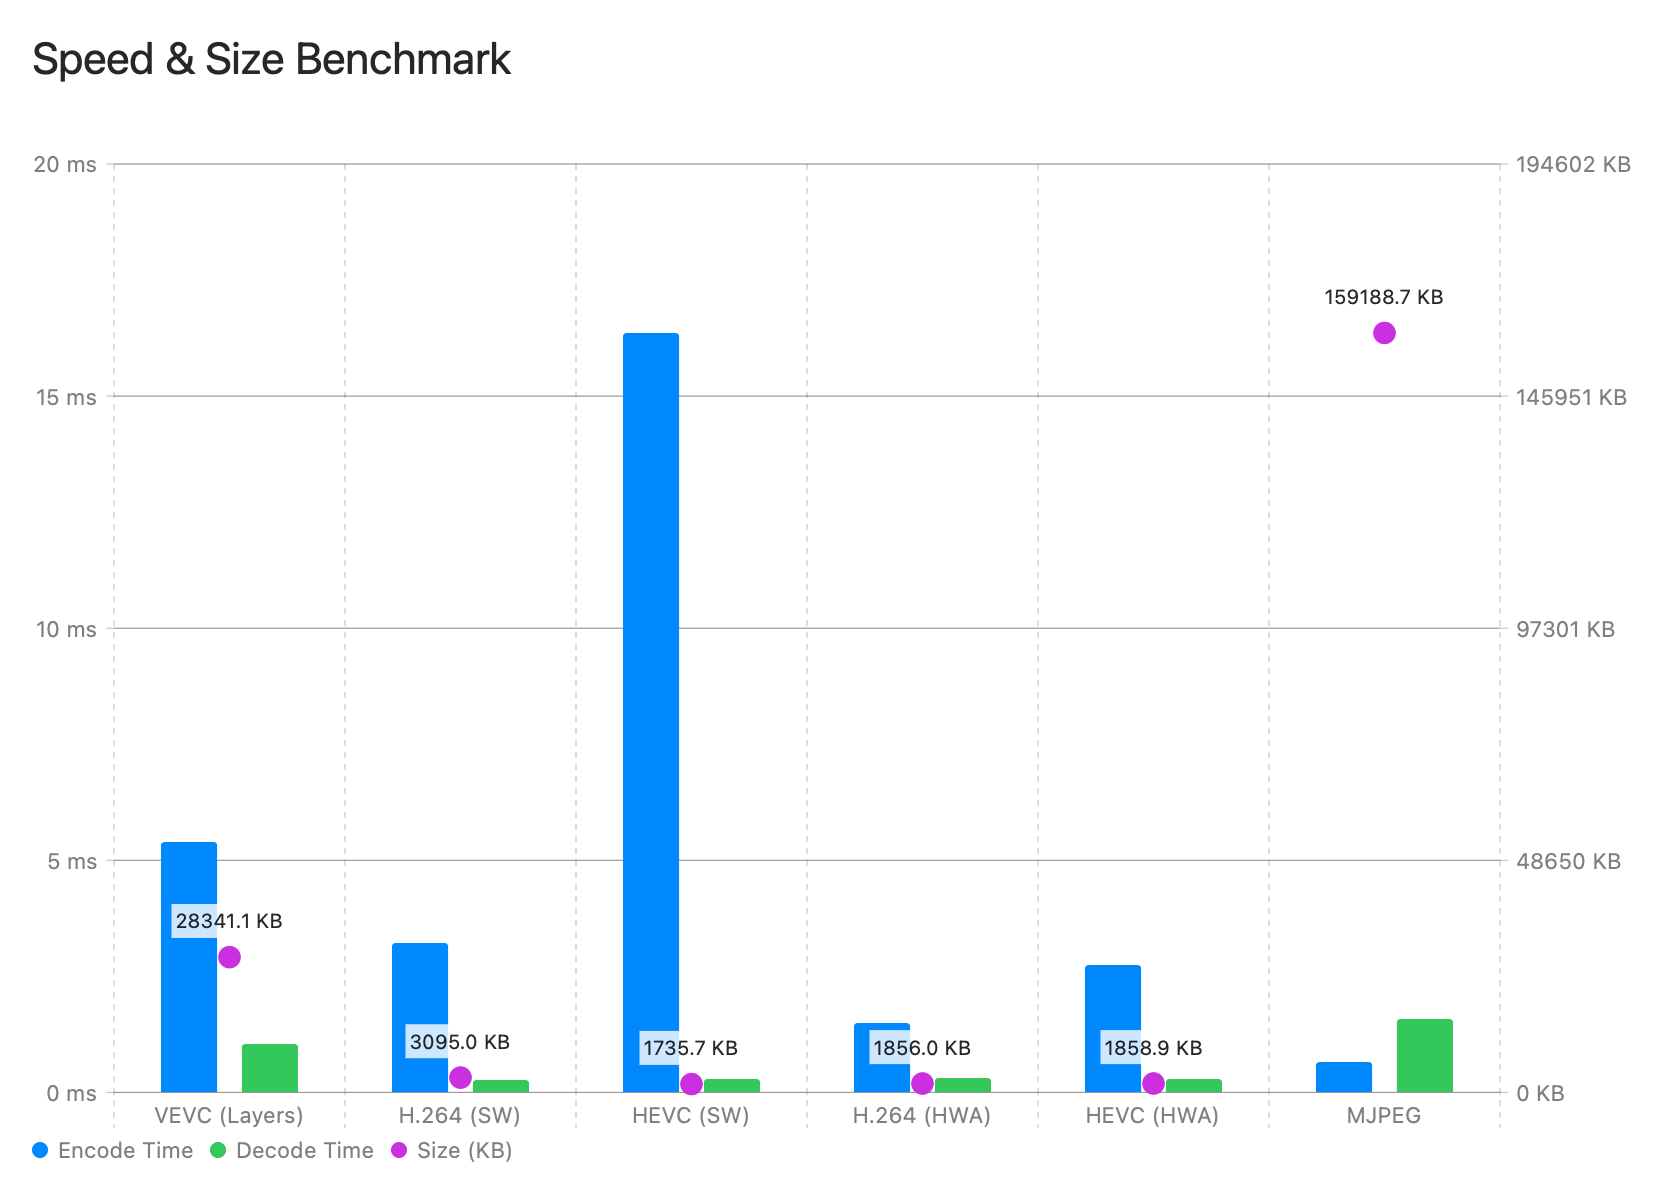
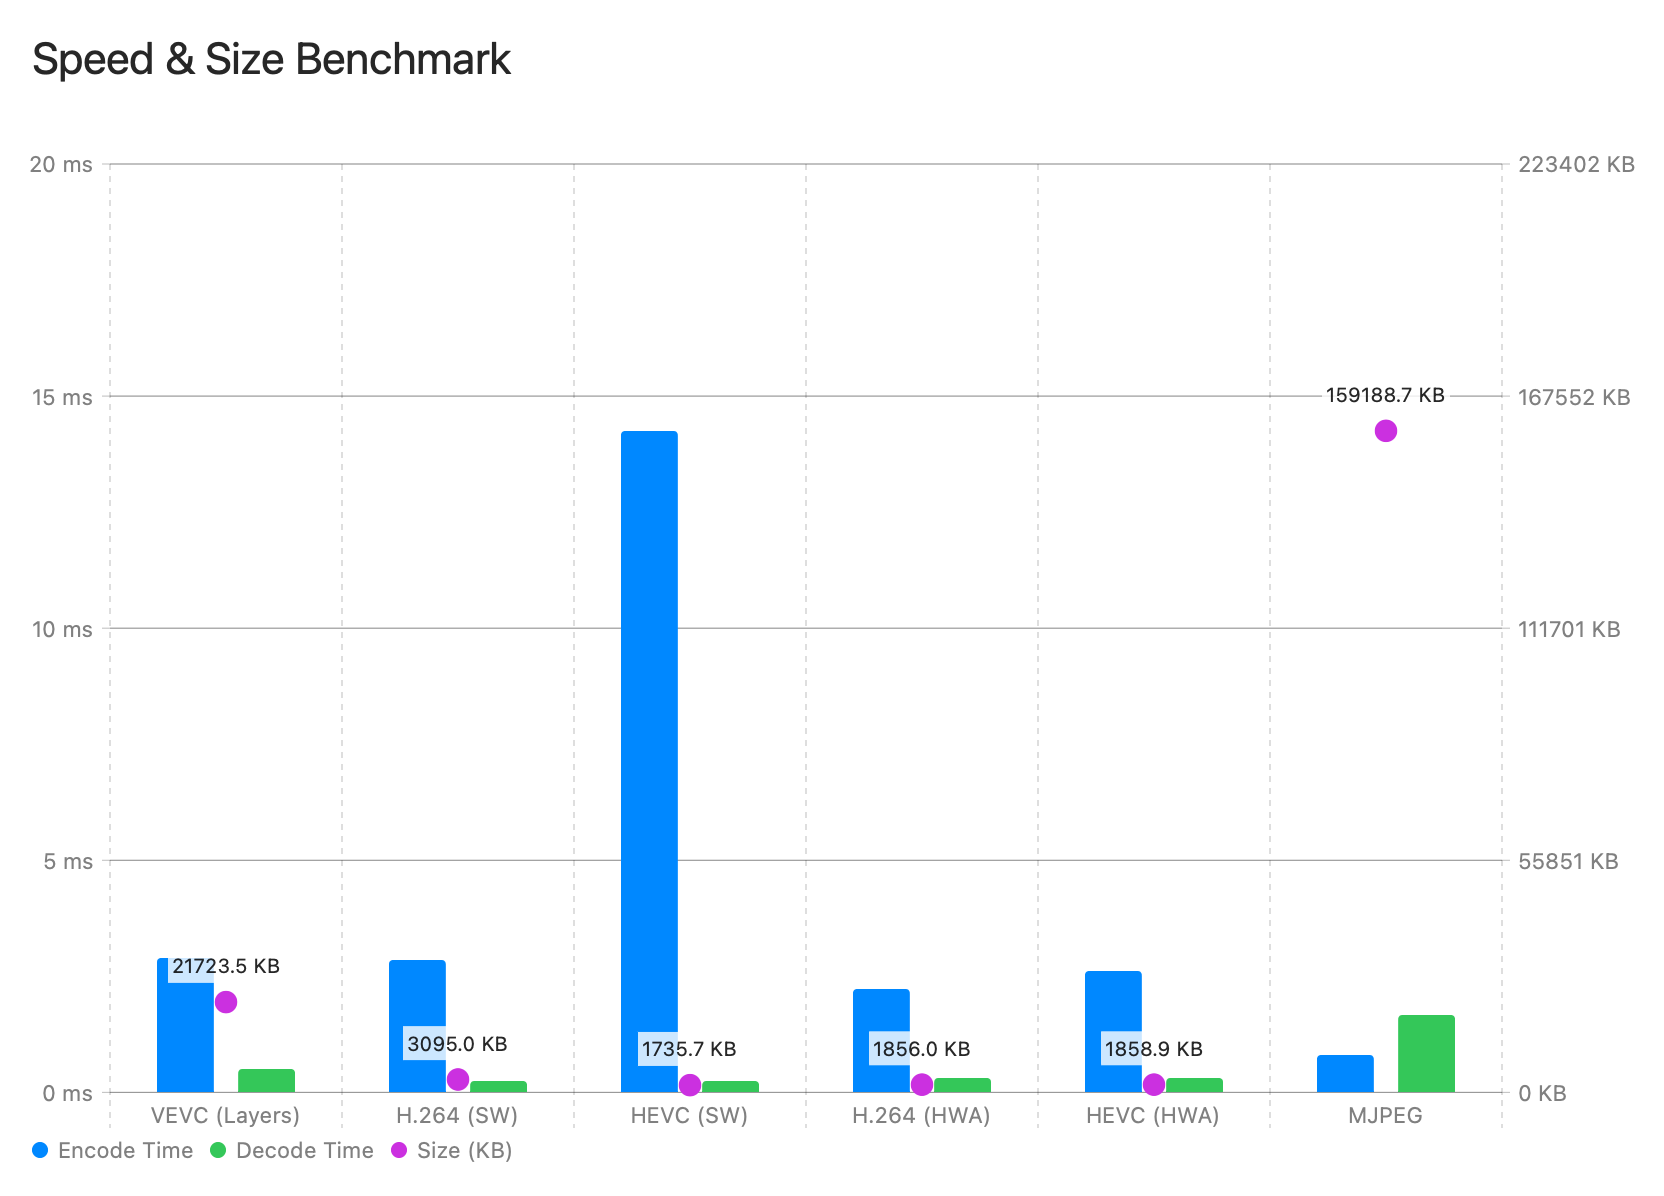
copy frame

diff --git a/Tests/vevcTests/CopyFrameTests.swift b/Tests/vevcTests/CopyFrameTests.swift
@@ -1,0 +1,149 @@
+import Testing
+@testable import vevc
+
+// MARK: - Copy Frame Tests
+//
+// Intent: When consecutive frames are identical (SAD=0), the encoder should
+// emit a "copy frame" signal (FrameLen=0) instead of encoding the full frame.
+// This saves significant data for videos with duplicate frames, such as
+// 24fps content upconverted to 60fps where ~60% of frames are duplicates.
+//
+// Design:
+// - Encoder: Compare current frame pixels to previous frame. If identical, write FrameLen=0.
+// - Decoder: When FrameLen=0, reuse the previous decoded frame (previous PlaneData420).
+// - Bitstream: FrameLen=0 is a valid, unambiguous signal since real encoded frames always have data.
+
+struct CopyFrameTests {
+
+    // MARK: - Helpers
+
+    /// Create a simple solid-color YCbCrImage for testing
+    private func makeSolidImage(width: Int, height: Int, y: UInt8, cb: UInt8, cr: UInt8) -> YCbCrImage {
+        var img = YCbCrImage(width: width, height: height)
+        for i in 0..<img.yPlane.count { img.yPlane[i] = y }
+        for i in 0..<img.cbPlane.count { img.cbPlane[i] = cb }
+        for i in 0..<img.crPlane.count { img.crPlane[i] = cr }
+        return img
+    }
+
+    // MARK: - Test: Identical frames produce smaller output than unique frames
+
+    /// Intent: Encoding N identical frames should produce significantly smaller data
+    /// than encoding N unique frames, because duplicate frames are encoded as copy
+    /// signals (FrameLen=0 = 4 bytes per duplicate).
+    @Test func identicalFramesProduceSmallerOutput() async throws {
+        let width = 64
+        let height = 64
+
+        // Scenario 1: 5 identical frames
+        let img = makeSolidImage(width: width, height: height, y: 128, cb: 128, cr: 128)
+        let identicalImages = [img, img, img, img, img]
+
+        let identicalBytes = try await vevc.encode(
+            images: identicalImages,
+            maxbitrate: 5_000_000,
+            framerate: 60,
+            zeroThreshold: 0,
+            keyint: 60,
+            sceneChangeThreshold: 32
+        )
+        let identicalSize = identicalBytes.count
+
+        // Scenario 2: 5 different frames
+        let img1 = makeSolidImage(width: width, height: height, y: 100, cb: 128, cr: 128)
+        let img2 = makeSolidImage(width: width, height: height, y: 120, cb: 128, cr: 128)
+        let img3 = makeSolidImage(width: width, height: height, y: 140, cb: 128, cr: 128)
+        let img4 = makeSolidImage(width: width, height: height, y: 160, cb: 128, cr: 128)
+        let img5 = makeSolidImage(width: width, height: height, y: 180, cb: 128, cr: 128)
+        let differentImages = [img1, img2, img3, img4, img5]
+
+        let differentBytes = try await vevc.encode(
+            images: differentImages,
+            maxbitrate: 5_000_000,
+            framerate: 60,
+            zeroThreshold: 0,
+            keyint: 60,
+            sceneChangeThreshold: 32
+        )
+        let differentSize = differentBytes.count
+
+        print("  Identical 5 frames: \(identicalSize) bytes")
+        print("  Different 5 frames: \(differentSize) bytes")
+        print("  Ratio: \(String(format: "%.1f", Double(identicalSize) / Double(differentSize) * 100))%")
+
+        // Identical frames should be at least 50% smaller
+        // (1 I-frame + 4 copy frames vs 1 I-frame + 4 P-frames)
+        #expect(identicalSize < differentSize, "Identical frames should produce less data")
+        #expect(Double(identicalSize) < Double(differentSize) * 0.5,
+               "Identical frames should be at least 50% smaller")
+    }
+
+    // MARK: - Test: Roundtrip with copy frames produces correct output
+
+    /// Intent: Encoding then decoding a sequence with duplicate frames should
+    /// produce output frames that match the input (within lossy codec tolerance).
+    @Test func copyFrameRoundtrip() async throws {
+        let width = 64
+        let height = 64
+
+        // Create a sequence: [unique, duplicate, unique, duplicate, duplicate]
+        let img1 = makeSolidImage(width: width, height: height, y: 100, cb: 128, cr: 128)
+        let img2 = makeSolidImage(width: width, height: height, y: 200, cb: 128, cr: 128)
+        let images = [img1, img1, img2, img2, img2]
+
+        let encoded = try await vevc.encode(
+            images: images,
+            maxbitrate: 5_000_000,
+            framerate: 60,
+            zeroThreshold: 0,
+            keyint: 60,
+            sceneChangeThreshold: 32
+        )
+
+        let decoded = try await vevc.decode(data: encoded)
+        #expect(decoded.count == 5, "Should decode 5 frames, got \(decoded.count)")
+
+        // Frames 0 and 1 should be similar (both derived from img1)
+        let y0 = decoded[0].yPlane
+        let y1 = decoded[1].yPlane
+        let diff01 = zip(y0, y1).map { abs(Int($0) - Int($1)) }.reduce(0, +) / y0.count
+        #expect(diff01 == 0, "Frames 0 and 1 should be identical (copy frame), avg diff = \(diff01)")
+
+        // Frames 2, 3, 4 should be similar (all derived from img2)
+        let y2 = decoded[2].yPlane
+        let y3 = decoded[3].yPlane
+        let y4 = decoded[4].yPlane
+        let diff23 = zip(y2, y3).map { abs(Int($0) - Int($1)) }.reduce(0, +) / y2.count
+        let diff34 = zip(y3, y4).map { abs(Int($0) - Int($1)) }.reduce(0, +) / y3.count
+        #expect(diff23 == 0, "Frames 2 and 3 should be identical (copy frame), avg diff = \(diff23)")
+        #expect(diff34 == 0, "Frames 3 and 4 should be identical (copy frame), avg diff = \(diff34)")
+    }
+
+    // MARK: - Test: GOP size count is preserved with copy frames
+
+    /// Intent: The GOP should report the correct number of frames even when
+    /// some are copy frames. The decoder must produce the right number of output frames.
+    @Test func gopFrameCountPreservedWithCopyFrames() async throws {
+        let width = 64
+        let height = 64
+        let img = makeSolidImage(width: width, height: height, y: 128, cb: 128, cr: 128)
+
+        // Test with various numbers of identical frames
+        for count in [2, 3, 5, 10] {
+            let images = [YCbCrImage](repeating: img, count: count)
+
+            let encoded = try await vevc.encode(
+                images: images,
+                maxbitrate: 5_000_000,
+                framerate: 60,
+                zeroThreshold: 0,
+                keyint: 60,
+                sceneChangeThreshold: 32
+            )
+
+            let decoded = try await vevc.decode(data: encoded)
+            #expect(decoded.count == count,
+                   "GOP with \(count) identical frames should decode to \(count) frames, got \(decoded.count)")
+        }
+    }
+}

diff --git a/Sources/vevc/Encoder.swift b/Sources/vevc/Encoder.swift
@@ -156,8 +156,24 @@ actor LayersEncodeActor {
         
         var encodedFrames = [[UInt8]]()
         var previousReconstructed: PlaneData420? = nil
+        var previousInputPlane: PlaneData420? = nil
         
         for plane in planes {
+            // Duplicate frame detection: if current frame pixels are identical
+            // to the previous frame, emit a copy frame (empty data, FrameLen=0)
+            // instead of encoding the full frame. This saves significant data
+            // for videos with duplicate frames (e.g. 24fps→60fps upconversion).
+            if let prevInput = previousInputPlane {
+                let isDuplicate = isPlaneIdentical(a: plane, b: prevInput)
+                if isDuplicate {
+                    encodedFrames.append([]) // empty = copy frame (FrameLen=0)
+                    // previousReconstructed stays the same (reuse previous reconstruction)
+                    // previousInputPlane stays the same
+                    continue
+                }
+            }
+            previousInputPlane = plane
+            
             let (bytes, reconstructed) = try await encodeSpatialLayers(
                 pd: plane, predictedPd: previousReconstructed, maxbitrate: localMaxbitrate,
                 qtY: qtY, qtC: qtC, zeroThreshold: localZeroThreshold
@@ -169,6 +185,13 @@ actor LayersEncodeActor {
         var gopBody: [UInt8] = []
         appendUInt32BE(&gopBody, UInt32(images.count)) // GOP size
         
+        // GOP bitstream layout: [GOPBodySize(4B)] [GOPSize(4B)] [FrameLen(4B) FrameData]...
+        // Convention: FrameLen == 0 indicates a "copy frame" — the frame is
+        // pixel-identical to its predecessor and carries no encoded payload.
+        // This avoids encoding redundant data for duplicate input frames,
+        // which is common in telecine/pulldown converted content (e.g. 24fps→60fps,
+        // where approximately 60% of frames are exact duplicates).
+        // The decoder recognizes FrameLen == 0 and reuses the previous decoded frame.
         for encoded in encodedFrames {
             appendUInt32BE(&gopBody, UInt32(encoded.count))
             gopBody.append(contentsOf: encoded)

diff --git a/Sources/vevc/Decoder.swift b/Sources/vevc/Decoder.swift
@@ -28,9 +28,19 @@ class CoreDecoder {
         let gopSize = Int(try readUInt32BEFromBytes(chunk, offset: &offset))
         
         // Parse all frame payloads (sequential, offset-dependent)
+        // Convention: FrameLen == 0 signals a "copy frame" — a frame that is
+        // pixel-identical to its predecessor. The encoder detects duplicate
+        // input frames (common in 24fps→60fps telecine/pulldown conversions)
+        // and emits FrameLen=0 instead of encoding redundant data.
+        // The decoder handles this by reusing the previous reconstructed frame.
         var frameData: [[UInt8]] = []
         for _ in 0..<gopSize {
             let len = Int(try readUInt32BEFromBytes(chunk, offset: &offset))
+            if len == 0 {
+                // Copy frame: empty payload signals reuse of previous frame
+                frameData.append([])
+                continue
+            }
             guard (offset + len) <= chunk.count else {
                 print("decodeGOP insufficientData: offset(\(offset)) + len(\(len)) > chunk.count(\(chunk.count))")
                 throw DecodeError.insufficientData
@@ -46,6 +56,14 @@ class CoreDecoder {
         
         var previousReconstructed: PlaneData420? = nil
         for (idx, data) in frameData.enumerated() {
+            // Copy frame: reuse previous reconstructed frame verbatim.
+            // This is valid because the encoder only emits FrameLen=0 when
+            // the input frame was pixel-identical to the previous one.
+            if data.isEmpty {
+                decodedPlanes[idx] = previousReconstructed
+                // Do NOT update previousReconstructed — it stays the same
+                continue
+            }
             let img16 = try await decodeSpatialLayers(r: data, maxLayer: localMaxLayer, dx: localWidth, dy: localHeight, predictedPd: previousReconstructed)
             let pd = PlaneData420(img16: img16)
             decodedPlanes[idx] = pd

diff --git a/Sources/vevc/Image.swift b/Sources/vevc/Image.swift
@@ -815,3 +815,38 @@ struct Image16: Sendable {
         }
     }
 }
+
+// MARK: - Duplicate Frame Detection
+
+/// Compare two PlaneData420 frames for pixel-level identity.
+/// Uses Y plane comparison only: if Y pixels are identical,
+/// Cb and Cr are also identical for the same input frame.
+/// SIMD16-accelerated for performance on hot path.
+@inline(__always)
+func isPlaneIdentical(a: PlaneData420, b: PlaneData420) -> Bool {
+    guard a.width == b.width, a.height == b.height else { return false }
+    guard a.y.count == b.y.count else { return false }
+    
+    let count = a.y.count
+    return a.y.withUnsafeBufferPointer { aBuf in
+        b.y.withUnsafeBufferPointer { bBuf in
+            guard let aPtr = aBuf.baseAddress, let bPtr = bBuf.baseAddress else { return false }
+            
+            var i = 0
+            #if arch(arm64) || arch(x86_64) || arch(wasm32)
+            while i + 16 <= count {
+                let aSimd = UnsafeRawPointer(aPtr.advanced(by: i)).load(as: SIMD16<Int16>.self)
+                let bSimd = UnsafeRawPointer(bPtr.advanced(by: i)).load(as: SIMD16<Int16>.self)
+                if any(aSimd .!= bSimd) { return false }
+                i += 16
+            }
+            #endif
+            
+            while i < count {
+                if aPtr[i] != bPtr[i] { return false }
+                i += 1
+            }
+            return true
+        }
+    }
+}

diff --git a/README.md b/README.md
@@ -65,6 +65,13 @@
 | F2 len (4B)   | F2 (P-Frame)    | F3 len (4B) | F3 (P-Frame)       | 
 +---------------+-----------------+-------------+--------------------+
 
+    Copy Frame (Duplicate Frame Skip):
+    When Fn len == 0, the frame is a "copy frame" — pixel-identical to its
+    predecessor. The encoder detects duplicate input frames (common in
+    telecine/pulldown content, e.g. 24fps→60fps where ~60% are duplicates)
+    and emits FrameLen=0 instead of encoding redundant data.
+    The decoder reuses the previous reconstructed frame verbatim.
+
     Spatial Frame (Motion Vectors + 3 Layers structure)
     +-------------------------------------------------------------+
     | MVs Count (4B) | MV Data Len (4B)  | rANS Encoded MVs       |
@@ -141,6 +148,17 @@ DWT Coefficients
 | `ValueTokenizer.swift` | Token/bypass decomposition for signed/unsigned values |
 | `rANSCompressor.swift` | Standalone rANS compression for generic byte data |
 
+### Hybrid Static/Dynamic Frequency Tables
+
+`vevc` uses a hybrid approach for rANS frequency tables, selected per-stream based on data volume:
+
+| Condition | Mode | Rationale |
+|-----------|------|----------|
+| Pair count ≥ 500 | **Dynamic** | Data-specific frequency tables provide 15–47% better compression |
+| Pair count < 500 | **Static** | Pre-defined tables avoid ~400B header overhead that would exceed compression gains |
+
+The encoder writes a `staticBit` flag in the stream header so the decoder knows whether to read embedded frequency tables or use the built-in static tables.
+
 ### Optimizations
 
 - **Interleaved 4-way**: 4 independent rANS states decoded in round-robin, enabling future SIMD4 parallelism
@@ -148,6 +166,7 @@ DWT Coefficients
 - **Zero-Run RLE**: DWT zero coefficients compressed as run-length tokens
 - **Raw Fallback**: Blocks with ≤32 non-zero coefficients skip rANS overhead entirely
 - **Compressed Frequency Tables**: Bitmap-based encoding reduces table size from 32B to ~10B
+- **Copy Frame Detection**: Duplicate input frames detected via SIMD16-accelerated pixel comparison, encoded as 4-byte markers
 
 ---
 
